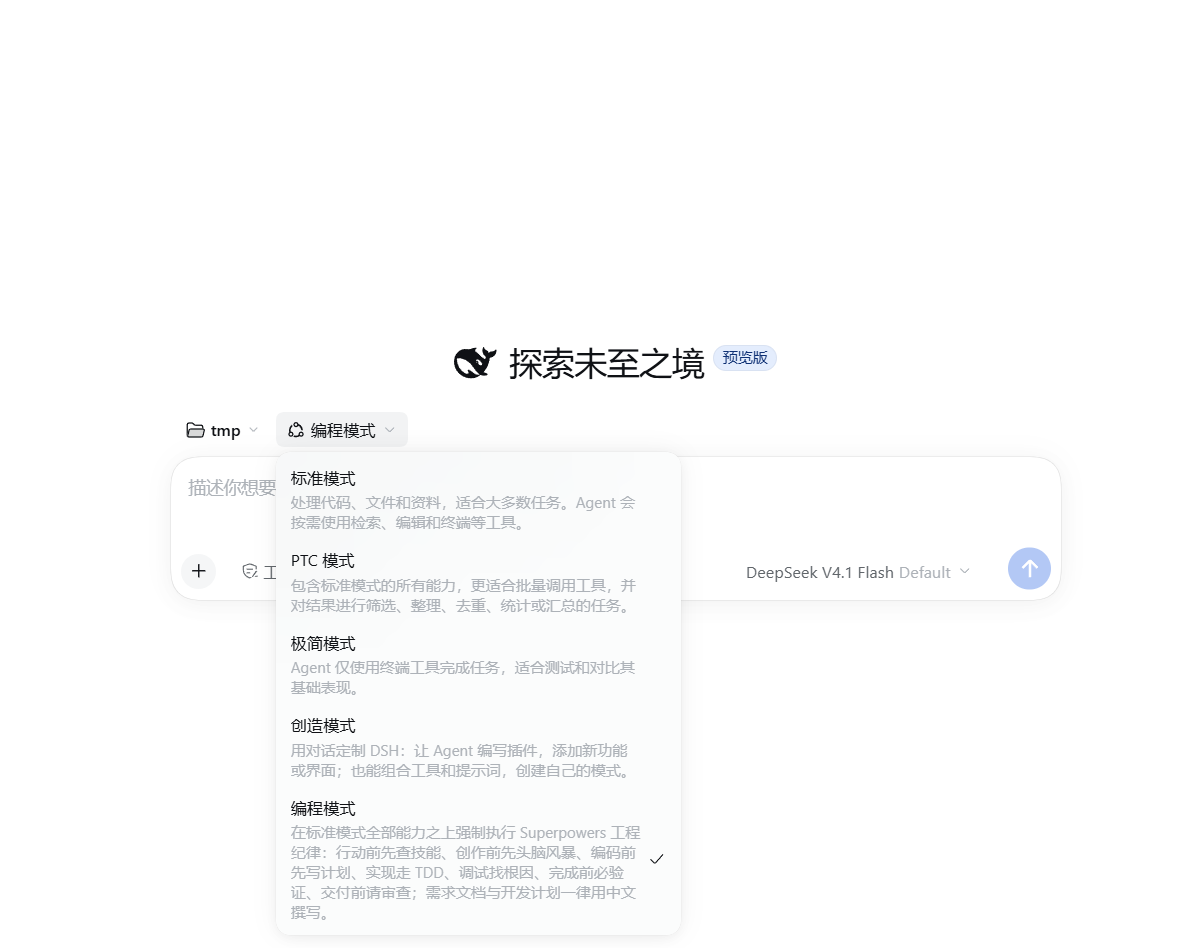
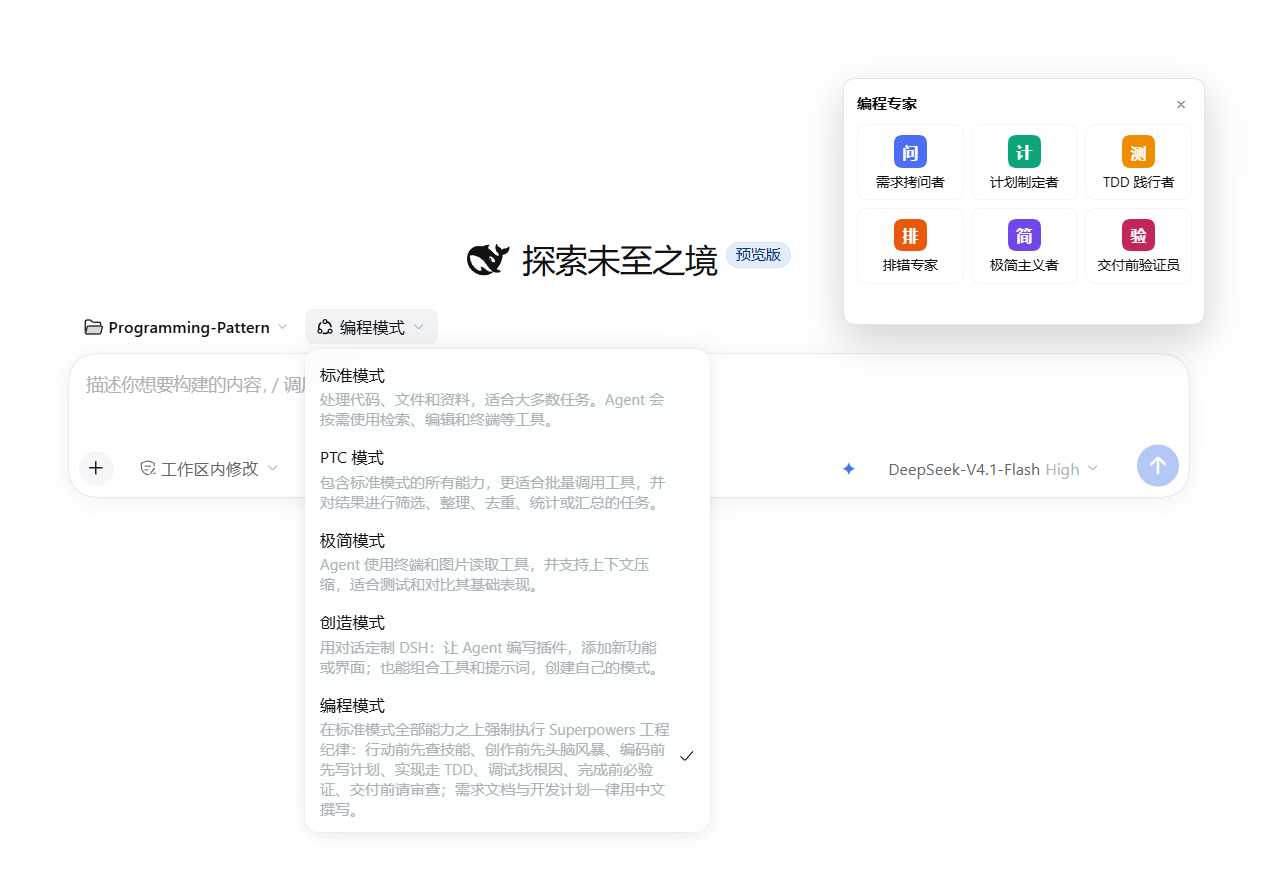
docs: 换成新模式选择器截图，安装说明按宿主拆分
截图：新任务页模式选择器下拉展开，五个内置/自定义模式并列，编程模式
带勾选；右上角同时可见编程专家浮窗。alt 文字补上专家面板，名实相符。

安装说明（上一提交已改，此处仅同步 alt）：桌面版只能走应用内市场，
CLI 会被 profile "desktop" is managed exclusively 拒掉；--profile web
的 web 只是 profile 名，装进哪个 profile 就只在哪个生效。

版本仍为 0.5.1，不发新版本。

diff --git a/README.en.md b/README.en.md
@@ -8,7 +8,7 @@ A [DeepSeek Harness](https://github.com/deepseek-ai/deepseek-harness) **bundle**
 
 > **dsh 0.2.0 desktop support arrives in 0.4.0** (0.3.8 and earlier were 0.1.x CLI only). One package, one composition — the installer picks whichever discovery channel the host speaks.
 
-![Programming Mode: pick 编程模式 in the mode selector above the composer to enable it](https://raw.githubusercontent.com/ziduup/dsh-programming-mode/main/assets/mode-picker.png)
+![Programming Mode: pick 编程模式 in the mode selector above the composer to enable it; the 编程专家 panel sits top-right](https://raw.githubusercontent.com/ziduup/dsh-programming-mode/main/assets/mode-picker.png)
 
 ## What it enforces
 

diff --git a/README.md b/README.md
@@ -8,7 +8,7 @@
 >
 > **0.4.0 起支持 dsh 0.2.0 桌面版**（0.3.8 及更早只支持 0.1.x CLI / web profile）；同一个包、同一份组合，安装器按宿主模型自动选通道。
 
-![编程模式：在输入框上方的模式选择器里选「编程模式」即可启用](https://raw.githubusercontent.com/ziduup/dsh-programming-mode/main/assets/mode-picker.png)
+![编程模式：在输入框上方的模式选择器里选「编程模式」即可启用；右上角是编程专家面板](https://raw.githubusercontent.com/ziduup/dsh-programming-mode/main/assets/mode-picker.png)
 
 ## 目录
 
